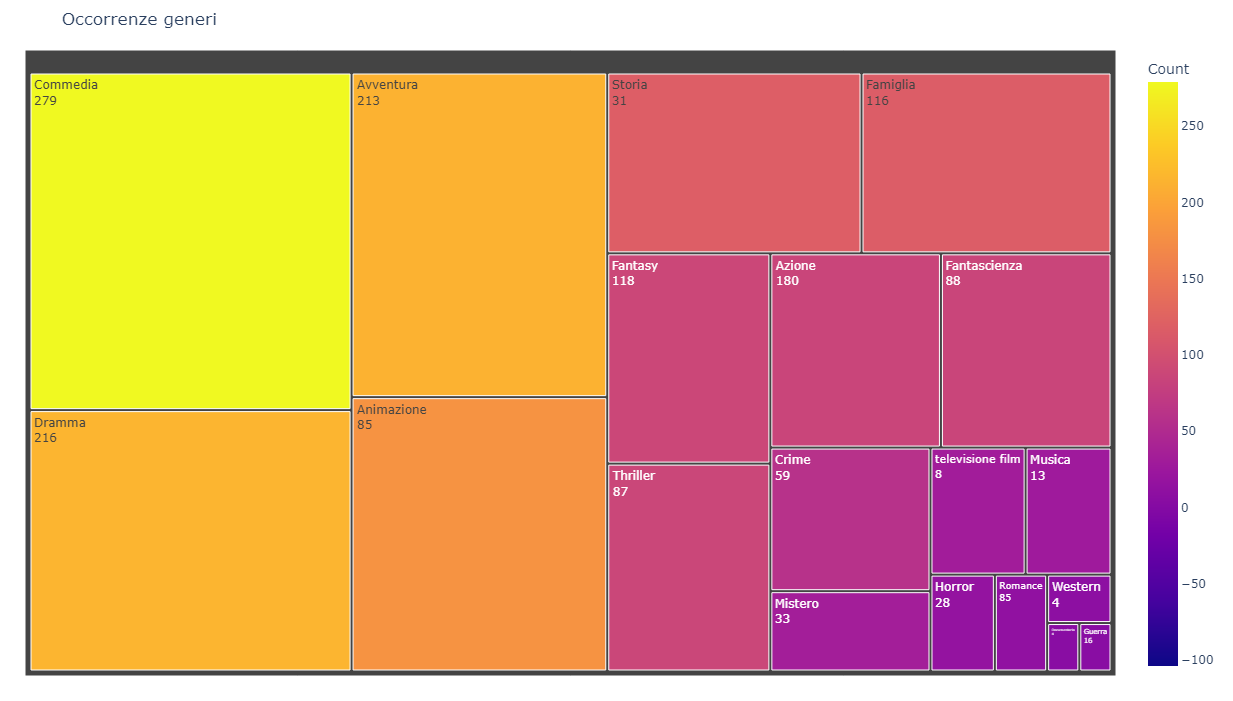
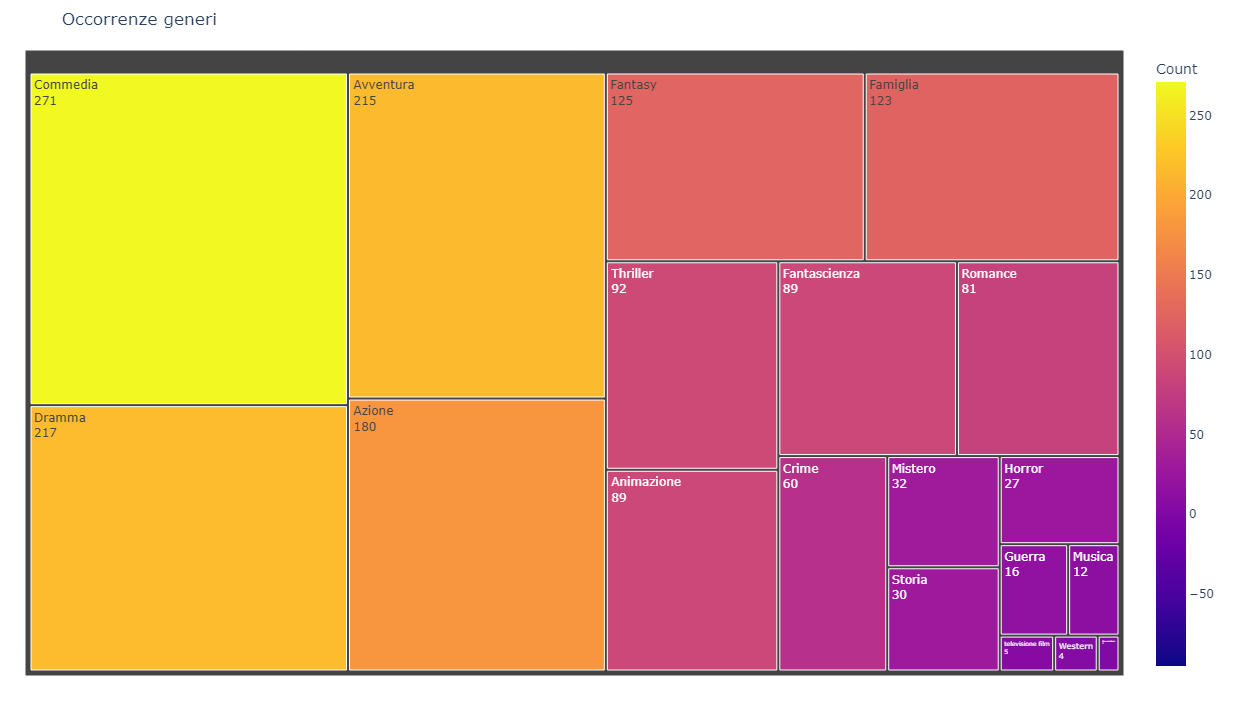
more accurate api calls, better plots

Changed region(s): [[0.0, 0.0599, 0.9862, 0.9586]]

diff --git a/tmdb_api.py b/tmdb_api.py
@@ -35,6 +35,13 @@ def get_film_genres(ita=True, all=False):
         response = search.movie(query=film, language='it-IT')
         try:
             id = search.results[0]['id']
+            for i in search.results:
+                if film.lower() == i['title']:
+                    id = i['id']
+                    break
+                if film.lower() in i['title'].lower():
+                    id = i['id']
+                    break
             movie = tmdb.Movies(id)
             genres = movie.info(language='it-IT')['genres']
             file[film] = genres
